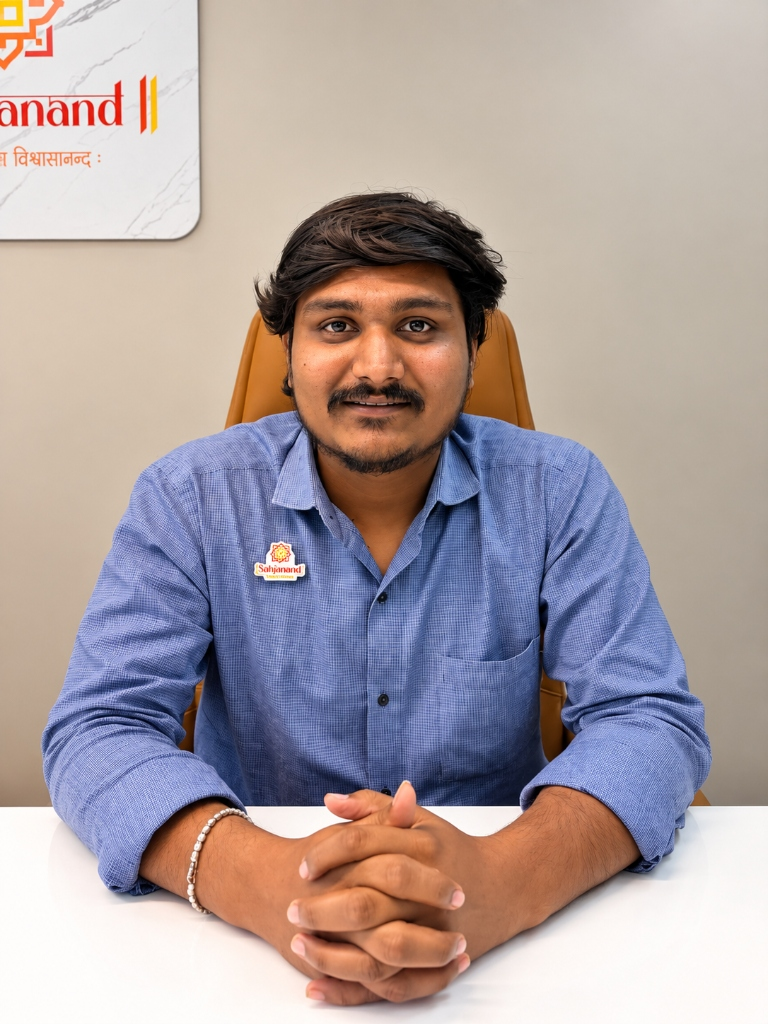
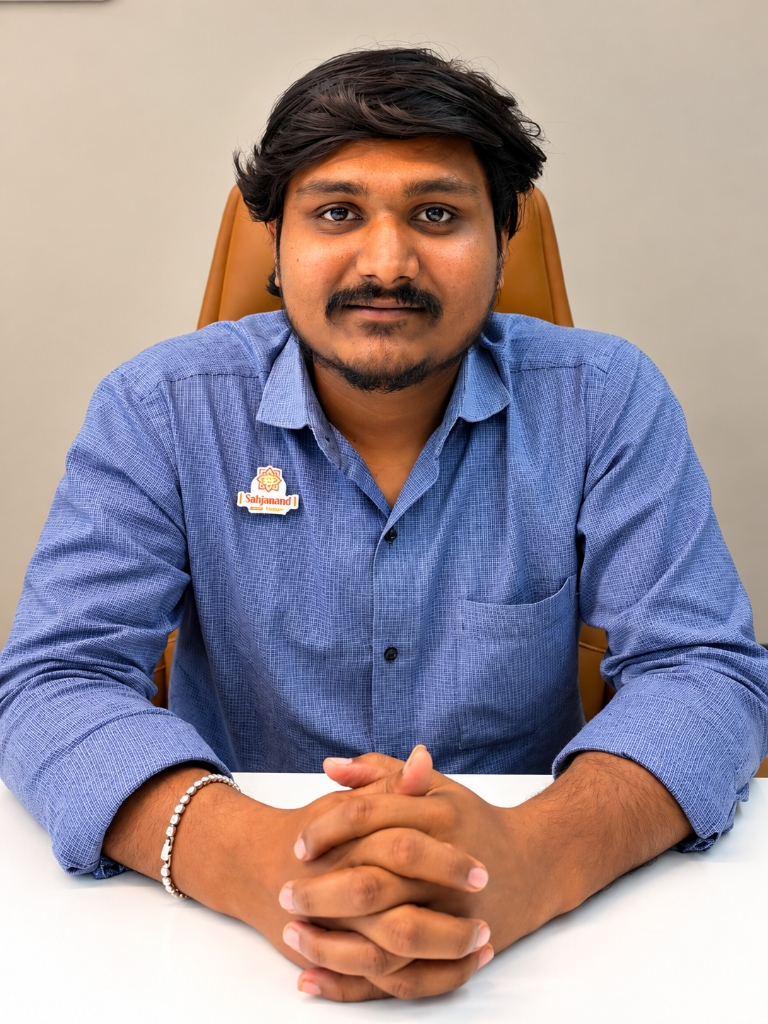
Update Milan Hidad portrait photo and bump cache v=82

diff --git a/management.html b/management.html
@@ -12,7 +12,7 @@
 <meta http-equiv="Cache-Control" content="no-cache, no-store, must-revalidate">
 <meta http-equiv="Pragma" content="no-cache">
 <meta http-equiv="Expires" content="0">
-<link rel="stylesheet" href="styles.css?v=81">
+<link rel="stylesheet" href="styles.css?v=82">
 </head>
 <body>
 
@@ -180,7 +180,7 @@
 
     <div class="team-arch-card">
      <div class="team-photo-frame" tabindex="0">
-      <img src="images/team-milan-hidad.jpg" alt="Mr. Milan Hidad" class="team-photo-img" onerror="this.classList.add('is-hidden')">
+      <img src="images/team-milan-hidad.jpg?v=2" alt="Mr. Milan Hidad" class="team-photo-img" onerror="this.classList.add('is-hidden')">
       <div class="team-photo-placeholder" aria-hidden="true">
        <span class="avatar-badge-arch">MH</span>
       </div>

diff --git a/contact.html b/contact.html
@@ -12,7 +12,7 @@
 <meta http-equiv="Cache-Control" content="no-cache, no-store, must-revalidate">
 <meta http-equiv="Pragma" content="no-cache">
 <meta http-equiv="Expires" content="0">
-<link rel="stylesheet" href="styles.css?v=81">
+<link rel="stylesheet" href="styles.css?v=82">
 </head>
 <body>
 

diff --git a/index.html b/index.html
@@ -12,7 +12,7 @@
 <meta http-equiv="Cache-Control" content="no-cache, no-store, must-revalidate">
 <meta http-equiv="Pragma" content="no-cache">
 <meta http-equiv="Expires" content="0">
-<link rel="stylesheet" href="styles.css?v=81">
+<link rel="stylesheet" href="styles.css?v=82">
 </head>
 <body>
 

diff --git a/infrastructure.html b/infrastructure.html
@@ -12,7 +12,7 @@
 <meta http-equiv="Cache-Control" content="no-cache, no-store, must-revalidate">
 <meta http-equiv="Pragma" content="no-cache">
 <meta http-equiv="Expires" content="0">
-<link rel="stylesheet" href="styles.css?v=81">
+<link rel="stylesheet" href="styles.css?v=82">
 </head>
 <body>
 

diff --git a/milestones.html b/milestones.html
@@ -12,7 +12,7 @@
 <meta http-equiv="Cache-Control" content="no-cache, no-store, must-revalidate">
 <meta http-equiv="Pragma" content="no-cache">
 <meta http-equiv="Expires" content="0">
-<link rel="stylesheet" href="styles.css?v=81">
+<link rel="stylesheet" href="styles.css?v=82">
 </head>
 <body>
 

diff --git a/products.html b/products.html
@@ -12,7 +12,7 @@
 <meta http-equiv="Cache-Control" content="no-cache, no-store, must-revalidate">
 <meta http-equiv="Pragma" content="no-cache">
 <meta http-equiv="Expires" content="0">
-<link rel="stylesheet" href="styles.css?v=81">
+<link rel="stylesheet" href="styles.css?v=82">
 </head>
 <body>
 

diff --git a/investors.html b/investors.html
@@ -13,7 +13,7 @@
 <meta http-equiv="Pragma" content="no-cache">
 <meta http-equiv="refresh" content="0; url=./">
 <script>window.location.replace('./');</script>
-<link rel="stylesheet" href="styles.css?v=81">
+<link rel="stylesheet" href="styles.css?v=82">
 </head>
 <body>
 
